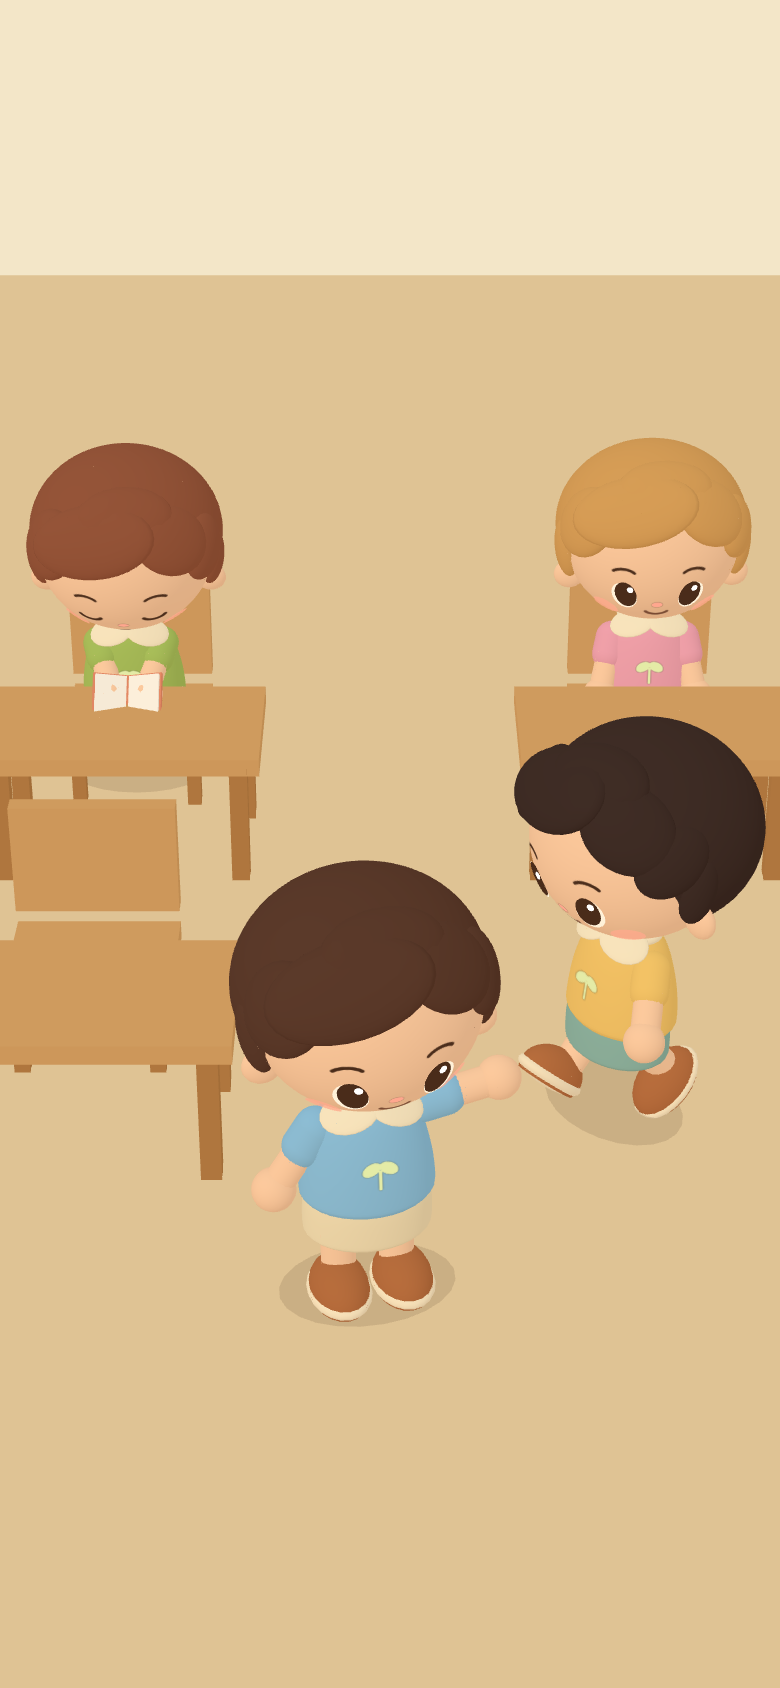
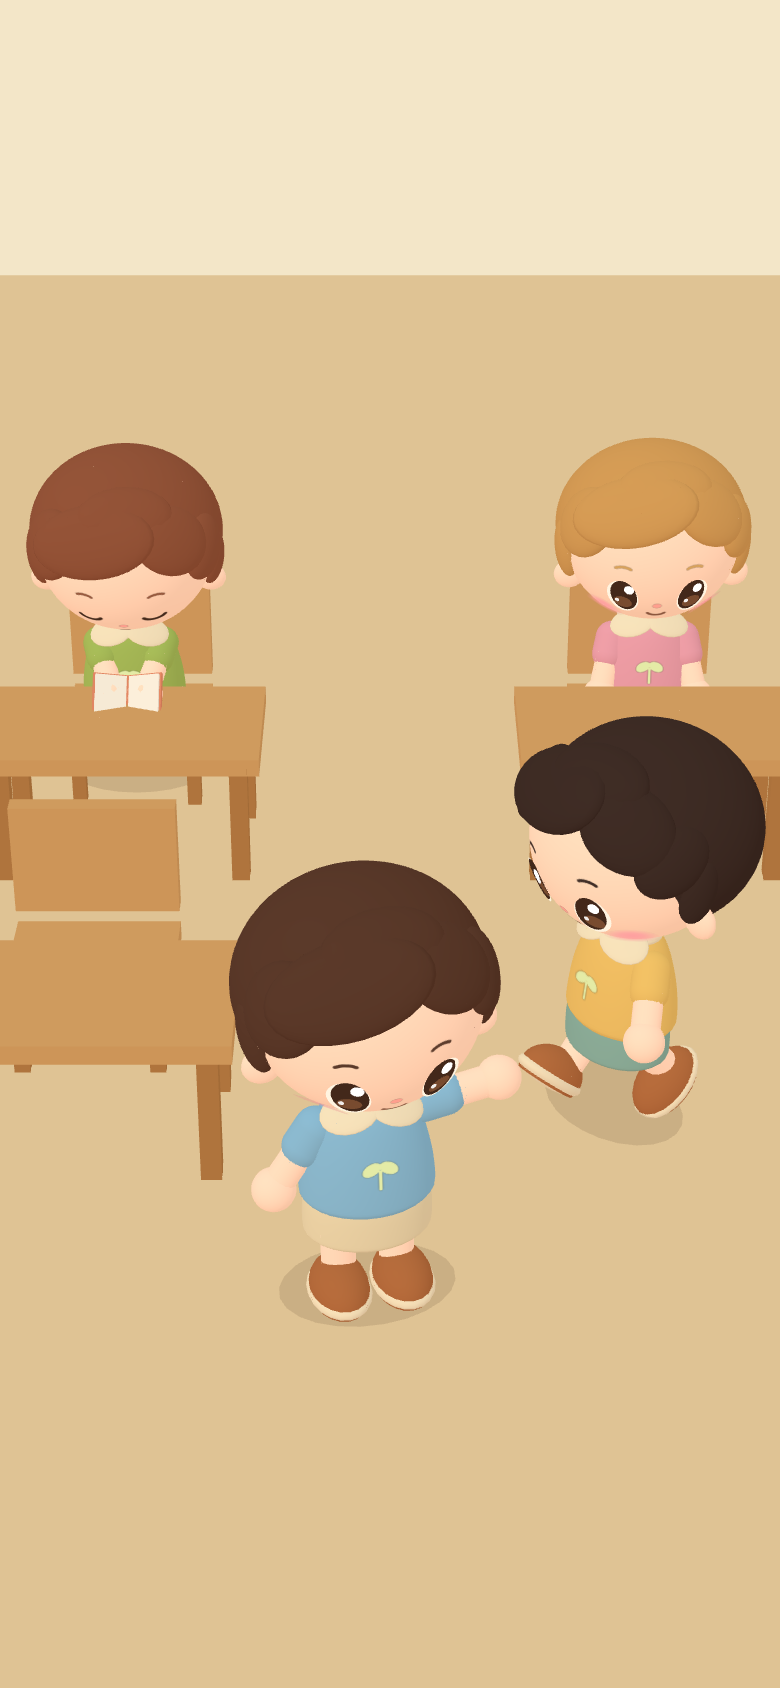
3D 아바타 시제품: 눈 확대와 반짝임, 번지는 분홍 볼터치, 밝은 피부색으로 조정
Claude-Session: https://claude.ai/code/session_0159aZotMhLJwovxiTTw4ndE

diff --git a/prototype/3d-avatar/avatar.js b/prototype/3d-avatar/avatar.js
@@ -4,8 +4,8 @@ import * as THREE from 'three';
 
 const deg = THREE.MathUtils.degToRad;
 export const DEFAULT_LOOK = {
-  skin: '#FFD0A6', hair: '#96563A', shirt: '#AAC45E', collar: '#FBEBC6',
-  shorts: '#FBE8C0', shoe: '#B9703F', sole: '#FBE9C4', eye: '#4A2C1A', cheek: '#FFA98C',
+  skin: '#FFDDC2', hair: '#96563A', shirt: '#AAC45E', collar: '#FBEBC6',
+  shorts: '#FBE8C0', shoe: '#B9703F', sole: '#FBE9C4', eye: '#43281A', cheek: '#FF9BA0', eyeScale: 1.22, cheekScale: 1.25,
 };
 export const LOOKS = [
   {},
@@ -35,18 +35,26 @@ export function drawFace(look, mood = 'smile') {
       g.strokeStyle = look.eye; g.lineWidth = 0.011 * k;
       g.beginPath(); g.ellipse(X(s * 0.086), Y(-0.085), 0.03 * k, 0.022 * k, 0, 0.12 * Math.PI, 0.88 * Math.PI); g.stroke();
     }
-    g.strokeStyle = look.eye; g.lineWidth = 0.008 * k;
-    g.beginPath(); g.ellipse(X(s * 0.094), Y(-0.03), 0.034 * k, 0.022 * k, 0, Math.PI * 1.2, Math.PI * 1.8); g.stroke();
+    g.strokeStyle = look.hair; g.lineWidth = 0.0075 * k;
+    g.beginPath(); g.ellipse(X(s * 0.096), Y(-0.024 + (look.eyeScale - 1) * 0.02), 0.028 * k, 0.018 * k, 0, Math.PI * 1.25, Math.PI * 1.75); g.stroke();
   }
-  ell(0, -0.127, 0.015, 0.011, '#FFA78E');
-  g.lineWidth = 0.009 * k; g.strokeStyle = '#7A4A32';
+  ell(0, -0.132, 0.012, 0.009, '#FF9F8E');
+  g.lineWidth = 0.0085 * k; g.strokeStyle = '#8A5238';
   g.beginPath();
   if (mood === 'read') g.ellipse(X(0), Y(-0.168), 0.011 * k, 0.006 * k, 0, 0.1 * Math.PI, 0.9 * Math.PI);
-  else g.ellipse(X(0), Y(-0.148), 0.032 * k, 0.022 * k, 0, 0.14 * Math.PI, 0.86 * Math.PI);
+  else g.ellipse(X(0), Y(-0.156), 0.026 * k, 0.02 * k, 0, 0.16 * Math.PI, 0.84 * Math.PI);
   g.stroke();
   const t = new THREE.CanvasTexture(c);
   t.colorSpace = THREE.SRGBColorSpace; t.anisotropy = 4;
   return t;
+}
+
+function blushTexture(color) {
+  const c = document.createElement('canvas'); c.width = c.height = 128;
+  const g = c.getContext('2d'); const gr = g.createRadialGradient(64, 64, 0, 64, 64, 64);
+  gr.addColorStop(0, color + 'e6'); gr.addColorStop(0.45, color + 'b8'); gr.addColorStop(1, color + '00');
+  g.fillStyle = gr; g.fillRect(0, 0, 128, 128);
+  const t = new THREE.CanvasTexture(c); t.colorSpace = THREE.SRGBColorSpace; return t;
 }
 
 function smooth(pts) { return new THREE.SplineCurve(pts).getPoints(36); }
@@ -77,7 +85,7 @@ export class Avatar {
     const look = (this.look = { ...DEFAULT_LOOK, ...lookIn });
     const root = (this.root = new THREE.Group());
     const M = {
-      skin: mat(look.skin), shirt: mat(look.shirt),
+      skin: mat(look.skin, { emissive: '#FFB493', emissiveIntensity: 0.2 }), shirt: mat(look.shirt),
       collar: mat(look.collar), shorts: mat(look.shorts), shoe: mat(look.shoe), sole: mat(look.sole),
     };
 
@@ -141,15 +149,26 @@ export class Avatar {
     const flat = (color, opacity = 1) => new THREE.MeshBasicMaterial({ color, transparent: true, opacity, depthWrite: false });
     const onFace = (x, y) => { const z = Math.sqrt(Math.max(0, HEAD_R * HEAD_R - x * x - y * y)); return [THREE.MathUtils.radToDeg(Math.atan2(x, z)), THREE.MathUtils.radToDeg(Math.asin(y / HEAD_R))]; };
     this.eyes = [];
+    const es = look.eyeScale, cs = look.cheekScale;
+    const cheekTex = blushTexture(look.cheek);
     for (const s of [-1, 1]) {
-      const [yw, pt] = onFace(s * 0.086, -0.092);
-      const white = lobe(head, flat('#FFF1D8'), yw + s * 1.2, pt - 1.2, 0.036, 0.05, 0.006, 0, HEAD_R * 1.002); white.renderOrder = 1;
-      const pupil = lobe(head, flat(look.eye), yw, pt, 0.031, 0.047, 0.008, 0, HEAD_R * 1.004); pupil.renderOrder = 2;
-      const [hy, hp] = onFace(s * 0.086 + 0.011, -0.073);
-      const glint = lobe(head, flat('#ffffff'), hy, hp, 0.009, 0.01, 0.004, 0, HEAD_R * 1.012); glint.renderOrder = 3;
-      this.eyes.push(white, pupil, glint);
-      const [cy, cp] = onFace(s * 0.132, -0.158);
-      const cheek = lobe(head, flat(look.cheek, 0.78), cy, cp, 0.04, 0.036, 0.004, 0, HEAD_R * 1.003); cheek.renderOrder = 1;
+      const ex = s * (0.088 + (es - 1) * 0.012), ey = -0.094 - (es - 1) * 0.012;
+      const [yw, pt] = onFace(ex, ey);
+      const white = lobe(head, flat('#FFF4E0'), yw + s * 1.0, pt - 1.0, 0.0365 * es, 0.0505 * es, 0.006, 0, HEAD_R * 1.002); white.renderOrder = 1;
+      const pupil = lobe(head, flat(look.eye), yw, pt, 0.031 * es, 0.047 * es, 0.008, 0, HEAD_R * 1.004); pupil.renderOrder = 2;
+      // 눈동자 아래쪽 밝은 갈색(촉촉한 느낌)
+      const [iy, ip] = onFace(ex, ey - 0.02 * es);
+      const iris = lobe(head, flat('#8A5636', 0.75), iy, ip, 0.021 * es, 0.02 * es, 0.004, 0, HEAD_R * 1.012); iris.renderOrder = 3;
+      const [hy, hp] = onFace(ex + 0.011 * es, ey + 0.02 * es);
+      const glint = lobe(head, flat('#ffffff'), hy, hp, 0.0115 * es, 0.0125 * es, 0.004, 0, HEAD_R * 1.02); glint.renderOrder = 4;
+      const [gy, gp] = onFace(ex - 0.012 * es, ey - 0.014 * es);
+      const glint2 = lobe(head, flat('#ffffff', 0.9), gy, gp, 0.005 * es, 0.0055 * es, 0.003, 0, HEAD_R * 1.022); glint2.renderOrder = 4;
+      this.eyes.push(white, pupil, iris, glint, glint2);
+      // 볼터치: 가장자리가 부드럽게 번지는 원
+      const [cy, cp] = onFace(s * 0.135, -0.158 - (es - 1) * 0.02);
+      const dirc = new THREE.Vector3(Math.sin(deg(cy)) * Math.cos(deg(cp)), Math.sin(deg(cp)), Math.cos(deg(cy)) * Math.cos(deg(cp)));
+      const cheek = new THREE.Mesh(new THREE.CircleGeometry(0.05 * cs, 28), new THREE.MeshBasicMaterial({ map: cheekTex, transparent: true, depthWrite: false }));
+      cheek.position.copy(dirc).multiplyScalar(HEAD_R * 1.004); cheek.lookAt(dirc.clone().multiplyScalar(2)); cheek.scale.y = 0.86; cheek.renderOrder = 1; head.add(cheek);
     }
     // 머리카락: 머리보다 조금 큰 공을 뒤·위로 물려 씌우면 얼굴만 둥글게 드러남 + 앞머리 덩어리
     const hairSolid = mat(look.hair);

diff --git a/prototype/3d-avatar/demo.js b/prototype/3d-avatar/demo.js
@@ -8,11 +8,22 @@ renderer.setPixelRatio(Math.min(devicePixelRatio, 2));
 renderer.setSize(innerWidth, innerHeight, false);
 const scene = new THREE.Scene();
 scene.add(new THREE.AmbientLight('#fff6ec', 0.75));
-scene.add(new THREE.HemisphereLight('#ffffff', '#ffeede', 1.6));
+scene.add(new THREE.HemisphereLight('#ffffff', '#ffe3d2', 1.6));
 const sun = new THREE.DirectionalLight('#fff6ea', 0.7); sun.position.set(-2.5, 4, 3.5); scene.add(sun);
 const avatars = [];
 let camera;
-if (view === 'turn') {
+if (view === 'faces') {
+  scene.background = new THREE.Color('#ffffff');
+  const a = innerWidth / innerHeight, h = 0.62;
+  camera = new THREE.OrthographicCamera(-h * a / 2, h * a / 2, h / 2, -h / 2, 0.1, 20);
+  camera.position.set(0, 0.74, 5); camera.lookAt(0, 0.74, 0);
+  const opts = [
+    { skin: '#FFD0A6', cheek: '#FFA98C', eyeScale: 1.0, cheekScale: 0.82, _old: true },
+    {},
+    { eyeScale: 1.42, cheekScale: 1.45, skin: '#FFE2CB' },
+  ];
+  opts.forEach((o, i) => { const av = new Avatar(o); av.root.position.x = (i - 1) * 0.6; av.shadow.visible = false; scene.add(av.root); avatars.push(av); });
+} else if (view === 'turn') {
   scene.background = new THREE.Color('#ffffff');
   const a = innerWidth / innerHeight, h = 1.13;
   camera = new THREE.OrthographicCamera(-h * a / 2, h * a / 2, h / 2, -h / 2, 0.1, 20);
